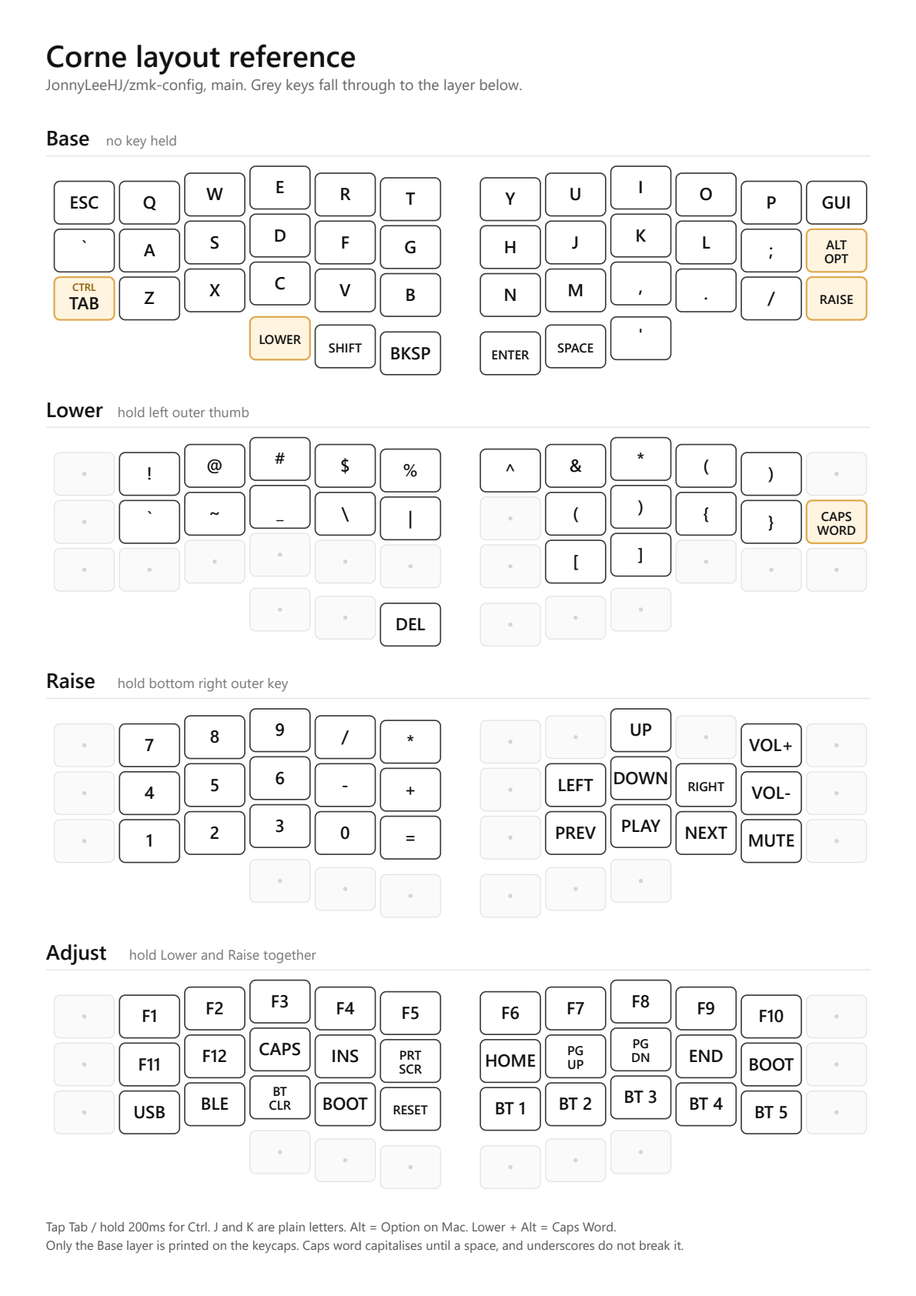
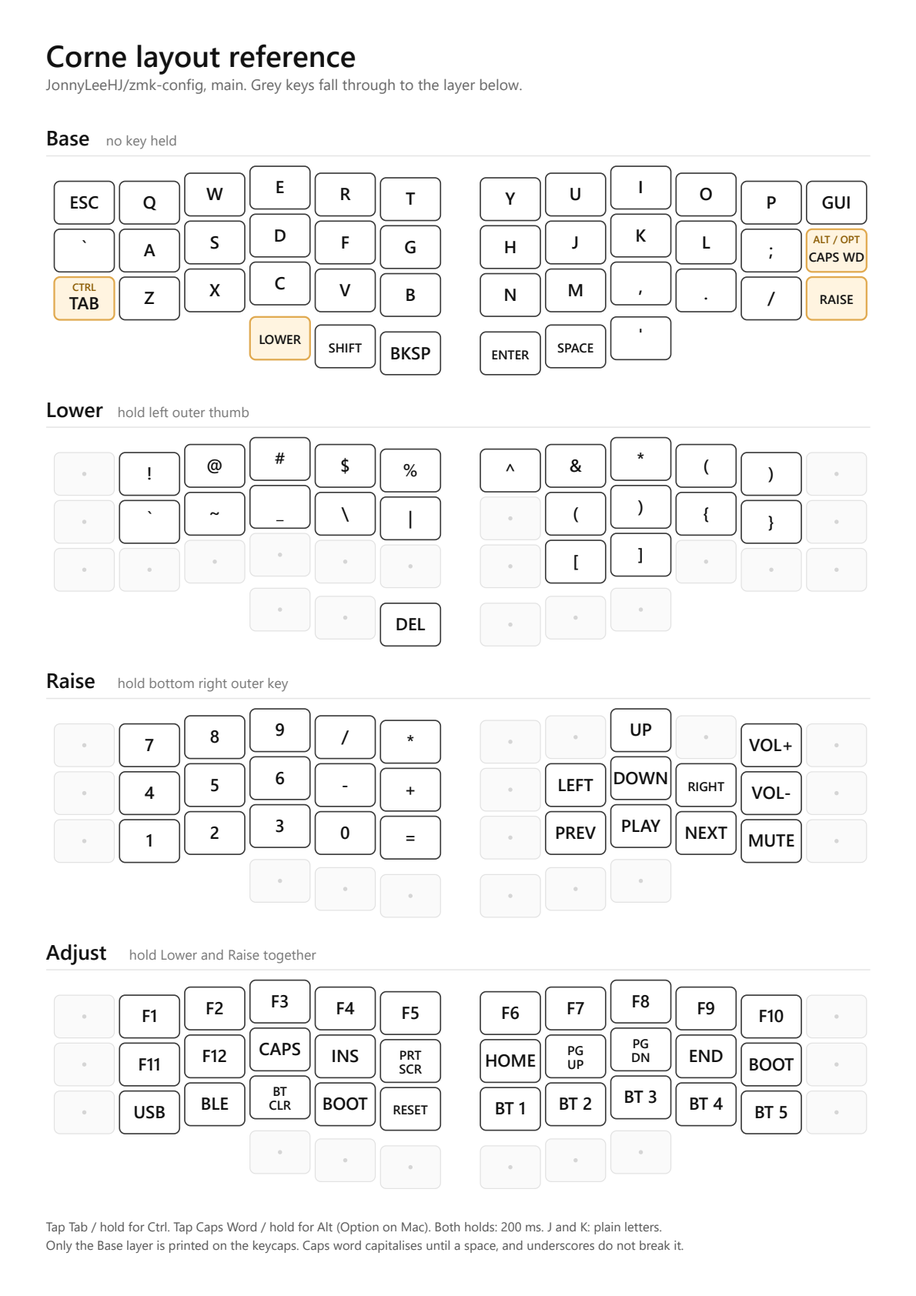
Publish installable offline keymap app and sync Caps Word Alt references

Changed region(s): [[0.1555, 0.9264, 0.7151, 0.9572], [0.8706, 0.3705, 0.9639, 0.4323], [0.8706, 0.1853, 0.9328, 0.2162]]

diff --git a/docs/mobile/index.html b/docs/mobile/index.html
@@ -1,31 +1,35 @@
 <!doctype html>
-<html lang="en"><head><meta charset="utf-8"><meta name="viewport" content="width=device-width,initial-scale=1"><meta name="theme-color" content="#f5f3ee"><title>Corne · Pocket keymap</title>
+<html lang="en"><head><meta charset="utf-8"><meta name="viewport" content="width=device-width,initial-scale=1"><meta name="theme-color" content="#f5f3ee"><link rel="manifest" href="./manifest.webmanifest"><link rel="apple-touch-icon" href="./icon-180.png"><meta name="apple-mobile-web-app-capable" content="yes"><meta name="apple-mobile-web-app-title" content="Corne"><title>Corne · Pocket keymap</title>
 <style>
 :root{color-scheme:light;--paper:#f5f3ee;--ink:#262c29;--muted:#69716b;--accent:#285a46;--line:#d9ded5;--key:#fffefa}*{box-sizing:border-box}body{margin:0;background:var(--paper);color:var(--ink);font:16px/1.5 system-ui,-apple-system,sans-serif}main{max-width:960px;margin:auto;padding:28px 20px 36px}header{display:flex;justify-content:space-between;align-items:center;margin-bottom:22px}.eyebrow{font-size:12px;letter-spacing:.14em;text-transform:uppercase;color:var(--muted)}h1{font-size:32px;line-height:1.1;letter-spacing:-1px;margin:7px 0}header span{font-size:12px;color:var(--muted)}button{font:inherit;cursor:pointer}nav{display:grid;grid-template-columns:repeat(4,1fr);gap:4px;padding:4px;background:#e8eae3;border-radius:12px;position:sticky;top:8px;z-index:2}nav button{border:0;background:transparent;color:var(--muted);border-radius:8px;min-height:44px;font-size:14px;font-weight:600}nav button[aria-pressed=true]{background:var(--accent);color:white}h2{font-size:22px;margin:24px 0 3px}.hint{margin:0;color:var(--muted);font-size:14px;min-height:42px}.boards{display:grid;gap:26px;margin:20px 0}.half-title{display:flex;justify-content:space-between;font-size:11px;text-transform:uppercase;letter-spacing:.12em;color:var(--muted);margin-bottom:10px}.grid{display:grid;grid-template-columns:repeat(6,minmax(0,1fr));gap:5px;align-items:start}.column{display:grid;gap:6px;padding-top:var(--stagger)}.key{min-width:0;width:100%;height:49px;border:1px solid #a8b3aa;border-bottom-width:3px;border-radius:7px;background:var(--key);color:var(--ink);font-size:16px;font-weight:600;line-height:1.05;display:flex;flex-direction:column;align-items:center;justify-content:center;gap:3px;padding:3px}.key.long{font-size:11px}.key small{font-size:9px;font-weight:500}.key.inherited{background:transparent;border-color:var(--line);color:var(--muted)}.key.special{border-color:#799681;background:#e3ede2}.key.selected{outline:3px solid var(--accent);outline-offset:2px}.key:focus-visible,button:focus-visible,a:focus-visible{outline:3px solid #bf691f;outline-offset:3px}.thumbs{display:grid;grid-template-columns:repeat(6,minmax(0,1fr));gap:5px;margin-top:12px}.thumbs.left .key:first-child{grid-column:4}.thumbs.right .key:first-child{grid-column:1}.legend{font-size:12px;color:var(--muted);margin:8px 0 18px}.detail{border-top:2px solid var(--accent);padding:15px 0;min-height:105px}.detail strong{font-size:18px}.detail p{font-size:14px;color:var(--muted);margin:5px 0}details{border-top:1px solid var(--line);padding:14px 0;font-size:14px}summary{cursor:pointer;font-weight:600;min-height:30px}details p{color:var(--muted)}footer{font-size:12px;color:var(--muted);margin-top:24px}a{color:var(--accent)}.os{border:1px solid var(--line);padding:9px 11px;border-radius:8px;background:transparent;font-size:12px;min-height:44px}@media(min-width:720px){main{padding:40px}.boards{grid-template-columns:1fr 1fr;gap:30px;margin:32px 0}.key{height:57px}h1{font-size:40px}.hint{min-height:0}}@media(max-width:359px){main{padding:20px 12px}.grid,.thumbs{gap:4px}.key{font-size:14px}}@media(prefers-color-scheme:dark){:root{color-scheme:dark;--paper:#191e1b;--ink:#edf1ea;--muted:#a6b0a8;--accent:#8db99d;--line:#414a43;--key:#272e29}nav{background:#272e29}nav button[aria-pressed=true]{color:#142218}.key.special{background:#2f4435;border-color:#86a58f}.key{border-color:#728175}.os{color:var(--ink)}} 
 </style></head><body><main>
-<header><div><div class="eyebrow">Your keyboard, at a glance</div><h1>Corne</h1><span>Pocket keymap · Draft</span></div><button class="os" id="os">Labels: Mac</button></header>
+<header><div><div class="eyebrow">Your keyboard, at a glance</div><h1>Corne</h1><span>Pocket keymap</span></div><button class="os" id="os">Labels: Mac</button></header>
 <nav aria-label="Choose keyboard layer" id="layers"></nav>
 <h2 id="title"></h2><p class="hint" id="hint"></p>
 <div class="boards" id="boards"></div><p class="legend">Muted keys inherit their action. Tap any key to see what it does.</p>
 <section class="detail" aria-live="polite"><strong id="keyTitle">A place for every key.</strong><p id="keyDetail">Choose a key above for its action and any hold behavior.</p></section>
-<details><summary>Everyday shortcuts</summary><p>Tap Tab for Tab. Hold it for 200 ms before pressing another key for Ctrl shortcuts. J and K are ordinary letters.</p><p>On Mac, GUI is Command and Alt is Option. On Windows, GUI is Windows and Right Alt may act as AltGr, depending on your keyboard language.</p><p>For Caps Word, hold Lower and tap the right outer home-row key. Release Lower, then type. Space ends Caps Word; underscores keep it active.</p></details>
-<details><summary>Reading the layers</summary><p>Lower: hold the left outer thumb. Raise: hold the right outer bottom key. Adjust: hold both together.</p><p>On Adjust, inherited bindings resolve through Raise, then Lower, then Base. These are reference buttons: tapping them here never sends a command to your keyboard.</p></details>
-<footer>From your firmware keymap · <a id="source">source</a><br><a href="../layout.pdf">Printable A4 sheet</a> · This draft is not yet published for phone access.</footer>
+<details><summary>Everyday shortcuts</summary><p>Tap Tab for Tab. Hold it for 200 ms before pressing another key for Ctrl shortcuts. J and K are ordinary letters.</p><p>On Mac, GUI is Command and Alt is Option. On Windows, GUI is Windows and Right Alt may act as AltGr, depending on your keyboard language.</p><p>Tap the right outer home-row key for Caps Word, or hold it for 200 ms for Alt/Option. No layer is needed. Space ends Caps Word; underscores keep it active.</p></details>
+<details><summary>Install on iPhone</summary><p>Open this page in Safari. Choose Share, then Add to Home Screen. Enable Open as Web App if offered. Open online once before using it offline. Reopen online after a firmware update to refresh the mapping.</p></details><details><summary>Reading the layers</summary><p>Lower: hold the left outer thumb. Raise: hold the right outer bottom key. Adjust: hold both together.</p><p>On Adjust, inherited bindings resolve through Raise, then Lower, then Base. These are reference buttons: tapping them here never sends a command to your keyboard.</p></details>
+<footer>From your firmware keymap · <a id="source">source</a><br><a href="./layout.pdf">Printable A4 sheet</a> · <span id="offlineStatus">Open online once to save for offline use.</span></footer>
 </main><script>
-const DATA={"revision":"d7542d9","layers":[{"name":"Base","sub":"no key held","rows":[["ESC","Q","W","E","R","T","Y","U","I","O","P","GUI"],["`","A","S","D","F","G","H","J","K","L",";","ALT\nOPT"],["TAB","Z","X","C","V","B","N","M",",",".","/","RAISE"]],"thumbs":["LOWER","SHIFT","BKSP","ENTER","SPACE","'"],"holds":{"2,0":"CTRL"},"accents":["1,11","2,0","2,11"],"thumbAccents":[0]},{"name":"Lower","sub":"hold left outer thumb","rows":[["","!","@","#","$","%","^","&","*","(",")",""],["","`","~","_","\\","|","","(",")","{","}","CAPS\nWORD"],["","","","","","","","[","]","","",""]],"thumbs":["","","DEL","","",""],"holds":{},"accents":["1,11"],"thumbAccents":[]},{"name":"Raise","sub":"hold bottom right outer key","rows":[["","7","8","9","/","*","","","UP","","VOL+",""],["","4","5","6","-","+","","LEFT","DOWN","RIGHT","VOL-",""],["","1","2","3","0","=","","PREV","PLAY","NEXT","MUTE",""]],"thumbs":["","","","","",""],"holds":{},"accents":[],"thumbAccents":[]},{"name":"Adjust","sub":"hold Lower and Raise together","rows":[["","F1","F2","F3","F4","F5","F6","F7","F8","F9","F10",""],["","F11","F12","CAPS","INS","PRT\nSCR","HOME","PG\nUP","PG\nDN","END","BOOT",""],["","USB","BLE","BT\nCLR","BOOT","RESET","BT 1","BT 2","BT 3","BT 4","BT 5",""]],"thumbs":["","","","","",""],"holds":{},"accents":[],"thumbAccents":[]}]};
+const DATA={"revision":"61cb7a3","layers":[{"name":"Base","sub":"no key held","rows":[["ESC","Q","W","E","R","T","Y","U","I","O","P","GUI"],["`","A","S","D","F","G","H","J","K","L",";","CAPS WORD"],["TAB","Z","X","C","V","B","N","M",",",".","/","RAISE"]],"thumbs":["LOWER","SHIFT","BKSP","ENTER","SPACE","'"],"holds":{"1,11":"ALT / OPT","2,0":"CTRL"},"accents":["1,11","2,0","2,11"],"thumbAccents":[0]},{"name":"Lower","sub":"hold left outer thumb","rows":[["","!","@","#","$","%","^","&","*","(",")",""],["","`","~","_","\\","|","","(",")","{","}",""],["","","","","","","","[","]","","",""]],"thumbs":["","","DEL","","",""],"holds":{},"accents":[],"thumbAccents":[]},{"name":"Raise","sub":"hold bottom right outer key","rows":[["","7","8","9","/","*","","","UP","","VOL+",""],["","4","5","6","-","+","","LEFT","DOWN","RIGHT","VOL-",""],["","1","2","3","0","=","","PREV","PLAY","NEXT","MUTE",""]],"thumbs":["","","","","",""],"holds":{},"accents":[],"thumbAccents":[]},{"name":"Adjust","sub":"hold Lower and Raise together","rows":[["","F1","F2","F3","F4","F5","F6","F7","F8","F9","F10",""],["","F11","F12","CAPS","INS","PRT\nSCR","HOME","PG\nUP","PG\nDN","END","BOOT",""],["","USB","BLE","BT\nCLR","BOOT","RESET","BT 1","BT 2","BT 3","BT 4","BT 5",""]],"thumbs":["","","","","",""],"holds":{},"accents":[],"thumbAccents":[]}]};
 let active=0,mac=true;
+try {mac=localStorage.getItem('corne-os')!=='windows';} catch {}
+document.querySelector('#os').textContent='Labels: '+(mac?'Mac':'Windows');
+const holdFor=(i,layer)=>DATA.layers[layer].holds[Math.floor(i/12)+','+(i%12)];
 const flat=l=>l.rows.flat().concat(l.thumbs);
 const raw=DATA.layers.map(flat);
 const hints=['Everyday typing. Tap Tab; hold 200 ms for Ctrl.','Hold the left outer thumb for symbols and brackets.','Hold the right outer bottom key for numbers and arrows.','Hold Lower + Raise for function keys, Bluetooth and utilities.'];
-function resolve(i){const order=active===3?[3,2,1,0]:active?[active,0]:[0];for(const layer of order)if(raw[layer][i])return {label:raw[layer][i],layer};throw Error('Unbound key '+i)}
+function resolve(i){const order=active===3?[3,2,1,0]:active?[active,0]:[0];for(const layer of order)if(raw[layer][i])return {label:raw[layer][i],layer,hold:holdFor(i,layer)};throw Error('Unbound key '+i)}
 function labelFor(label){if(label==='GUI')return mac?'CMD':'WIN';if(label==='ALT\nOPT')return mac?'OPT':'ALT';return label}
 function info(i){
  const key=resolve(i),label=labelFor(key.label),base=labelFor(raw[0][i]);
  let message='Press for '+label.replaceAll('\n',' ')+'.';
  if(i===24&&key.layer===0)message='Tap for Tab. Hold for 200 ms for Left Ctrl; then press your shortcut key. A quick tap stays Tab even when another key overlaps.';
+ else if(key.hold==='ALT / OPT')message='Tap for Caps Word. Hold for 200 ms for '+(mac?'Right Option':'Right Alt')+' before pressing a shortcut key. No layer is needed. Spaces end Caps Word; underscores continue it.';
  else if(key.label==='ALT\nOPT')message=mac?'Right Option on macOS. Hold with another key for an Option shortcut.':'Right Alt. Depending on your keyboard language, this may function as AltGr.';
  else if(key.label==='GUI')message=mac?'Command on macOS. Hold with C, V or S for common shortcuts.':'Windows key. Hold with another key for Windows shortcuts.';
- else if(key.label==='CAPS\nWORD')message='Activate Caps Word, release Lower, then type. Space ends it; underscores continue it.';
+ else if(key.label==='CAPS\nWORD')message='Activate Caps Word, then type. Space ends it; underscores continue it.';
  else if(key.label==='LOWER')message='Hold the left outer thumb to activate Lower. Combine with Raise for Adjust.';
  else if(key.label==='RAISE')message='Hold the right outer bottom key to activate Raise. Combine with Lower for Adjust.';
  else if(key.label==='BOOT')message='Enter the bootloader for firmware flashing. This page only describes the binding; it does not trigger it.';
@@ -42,11 +46,11 @@ function keyButton(i){
  const value=resolve(i),label=labelFor(value.label),button=document.createElement('button');
  button.type='button';button.className='key';button.dataset.index=i;
  if(value.layer!==active)button.classList.add('inherited');
- else if(['LOWER','RAISE','ALT\nOPT','CAPS\nWORD'].includes(value.label)||i===24&&value.layer===0)button.classList.add('special');
+ else if(['LOWER','RAISE','ALT\nOPT','CAPS\nWORD'].includes(value.label)||value.hold)button.classList.add('special');
  if(label.length>4)button.classList.add('long');
- if(i===24&&value.layer===0){const small=document.createElement('small');small.textContent='hold CTRL';button.append(small)}
- label.split('\n').forEach(t=>{const span=document.createElement('span');span.textContent=t;button.append(span)});
- button.setAttribute('aria-label',label.replaceAll('\n',' ')+(i===24&&value.layer===0?', hold for Ctrl':'')+(value.layer!==active?', inherited from '+DATA.layers[value.layer].name:''));
+ if(value.hold){const small=document.createElement('small');small.textContent='hold '+(value.hold==='ALT / OPT'?(mac?'OPT':'ALT'):value.hold);button.append(small)}
+ (label==='CAPS WORD'?['CAPS','WORD']:label.split('\n')).forEach(t=>{const span=document.createElement('span');span.textContent=t;button.append(span)});
+ button.setAttribute('aria-label',label.replaceAll('\n',' ')+(value.hold?', hold for '+value.hold:'')+(value.layer!==active?', inherited from '+DATA.layers[value.layer].name:''));
  button.onclick=()=>info(i);return button;
 }
 function render(){
@@ -66,7 +70,12 @@ function render(){
  document.querySelector('#keyDetail').textContent='Tap a key for its action. Muted keys still work through the underlying layers.';
 }
 DATA.layers.forEach((l,i)=>{const b=document.createElement('button');b.textContent=l.name;b.type='button';b.onclick=()=>{active=i;render()};document.querySelector('#layers').append(b)});
-document.querySelector('#os').onclick=()=>{mac=!mac;document.querySelector('#os').textContent='Labels: '+(mac?'Mac':'Windows');render()};
+document.querySelector('#os').onclick=()=>{mac=!mac;try{localStorage.setItem('corne-os',mac?'mac':'windows')}catch{}document.querySelector('#os').textContent='Labels: '+(mac?'Mac':'Windows');render()};
 const source=document.querySelector('#source');source.textContent=DATA.revision;source.href='https://github.com/JonnyLeeHJ/zmk-config/blob/'+DATA.revision+'/config/corne.keymap';
 render();
+if('serviceWorker' in navigator && location.protocol!=='file:'){
+ navigator.serviceWorker.register('./sw.js').then(()=>navigator.serviceWorker.ready).then(()=>{
+ document.querySelector('#offlineStatus').textContent='Saved for offline use.';
+ }).catch(()=>{document.querySelector('#offlineStatus').textContent='Offline setup unavailable. You can still browse online.';});
+}
 </script></body></html>

diff --git a/docs/mobile/template.html b/docs/mobile/template.html
@@ -1,31 +1,35 @@
 <!doctype html>
-<html lang="en"><head><meta charset="utf-8"><meta name="viewport" content="width=device-width,initial-scale=1"><meta name="theme-color" content="#f5f3ee"><title>Corne · Pocket keymap</title>
+<html lang="en"><head><meta charset="utf-8"><meta name="viewport" content="width=device-width,initial-scale=1"><meta name="theme-color" content="#f5f3ee"><link rel="manifest" href="./manifest.webmanifest"><link rel="apple-touch-icon" href="./icon-180.png"><meta name="apple-mobile-web-app-capable" content="yes"><meta name="apple-mobile-web-app-title" content="Corne"><title>Corne · Pocket keymap</title>
 <style>
 :root{color-scheme:light;--paper:#f5f3ee;--ink:#262c29;--muted:#69716b;--accent:#285a46;--line:#d9ded5;--key:#fffefa}*{box-sizing:border-box}body{margin:0;background:var(--paper);color:var(--ink);font:16px/1.5 system-ui,-apple-system,sans-serif}main{max-width:960px;margin:auto;padding:28px 20px 36px}header{display:flex;justify-content:space-between;align-items:center;margin-bottom:22px}.eyebrow{font-size:12px;letter-spacing:.14em;text-transform:uppercase;color:var(--muted)}h1{font-size:32px;line-height:1.1;letter-spacing:-1px;margin:7px 0}header span{font-size:12px;color:var(--muted)}button{font:inherit;cursor:pointer}nav{display:grid;grid-template-columns:repeat(4,1fr);gap:4px;padding:4px;background:#e8eae3;border-radius:12px;position:sticky;top:8px;z-index:2}nav button{border:0;background:transparent;color:var(--muted);border-radius:8px;min-height:44px;font-size:14px;font-weight:600}nav button[aria-pressed=true]{background:var(--accent);color:white}h2{font-size:22px;margin:24px 0 3px}.hint{margin:0;color:var(--muted);font-size:14px;min-height:42px}.boards{display:grid;gap:26px;margin:20px 0}.half-title{display:flex;justify-content:space-between;font-size:11px;text-transform:uppercase;letter-spacing:.12em;color:var(--muted);margin-bottom:10px}.grid{display:grid;grid-template-columns:repeat(6,minmax(0,1fr));gap:5px;align-items:start}.column{display:grid;gap:6px;padding-top:var(--stagger)}.key{min-width:0;width:100%;height:49px;border:1px solid #a8b3aa;border-bottom-width:3px;border-radius:7px;background:var(--key);color:var(--ink);font-size:16px;font-weight:600;line-height:1.05;display:flex;flex-direction:column;align-items:center;justify-content:center;gap:3px;padding:3px}.key.long{font-size:11px}.key small{font-size:9px;font-weight:500}.key.inherited{background:transparent;border-color:var(--line);color:var(--muted)}.key.special{border-color:#799681;background:#e3ede2}.key.selected{outline:3px solid var(--accent);outline-offset:2px}.key:focus-visible,button:focus-visible,a:focus-visible{outline:3px solid #bf691f;outline-offset:3px}.thumbs{display:grid;grid-template-columns:repeat(6,minmax(0,1fr));gap:5px;margin-top:12px}.thumbs.left .key:first-child{grid-column:4}.thumbs.right .key:first-child{grid-column:1}.legend{font-size:12px;color:var(--muted);margin:8px 0 18px}.detail{border-top:2px solid var(--accent);padding:15px 0;min-height:105px}.detail strong{font-size:18px}.detail p{font-size:14px;color:var(--muted);margin:5px 0}details{border-top:1px solid var(--line);padding:14px 0;font-size:14px}summary{cursor:pointer;font-weight:600;min-height:30px}details p{color:var(--muted)}footer{font-size:12px;color:var(--muted);margin-top:24px}a{color:var(--accent)}.os{border:1px solid var(--line);padding:9px 11px;border-radius:8px;background:transparent;font-size:12px;min-height:44px}@media(min-width:720px){main{padding:40px}.boards{grid-template-columns:1fr 1fr;gap:30px;margin:32px 0}.key{height:57px}h1{font-size:40px}.hint{min-height:0}}@media(max-width:359px){main{padding:20px 12px}.grid,.thumbs{gap:4px}.key{font-size:14px}}@media(prefers-color-scheme:dark){:root{color-scheme:dark;--paper:#191e1b;--ink:#edf1ea;--muted:#a6b0a8;--accent:#8db99d;--line:#414a43;--key:#272e29}nav{background:#272e29}nav button[aria-pressed=true]{color:#142218}.key.special{background:#2f4435;border-color:#86a58f}.key{border-color:#728175}.os{color:var(--ink)}} 
 </style></head><body><main>
-<header><div><div class="eyebrow">Your keyboard, at a glance</div><h1>Corne</h1><span>Pocket keymap · Draft</span></div><button class="os" id="os">Labels: Mac</button></header>
+<header><div><div class="eyebrow">Your keyboard, at a glance</div><h1>Corne</h1><span>Pocket keymap</span></div><button class="os" id="os">Labels: Mac</button></header>
 <nav aria-label="Choose keyboard layer" id="layers"></nav>
 <h2 id="title"></h2><p class="hint" id="hint"></p>
 <div class="boards" id="boards"></div><p class="legend">Muted keys inherit their action. Tap any key to see what it does.</p>
 <section class="detail" aria-live="polite"><strong id="keyTitle">A place for every key.</strong><p id="keyDetail">Choose a key above for its action and any hold behavior.</p></section>
-<details><summary>Everyday shortcuts</summary><p>Tap Tab for Tab. Hold it for 200 ms before pressing another key for Ctrl shortcuts. J and K are ordinary letters.</p><p>On Mac, GUI is Command and Alt is Option. On Windows, GUI is Windows and Right Alt may act as AltGr, depending on your keyboard language.</p><p>For Caps Word, hold Lower and tap the right outer home-row key. Release Lower, then type. Space ends Caps Word; underscores keep it active.</p></details>
-<details><summary>Reading the layers</summary><p>Lower: hold the left outer thumb. Raise: hold the right outer bottom key. Adjust: hold both together.</p><p>On Adjust, inherited bindings resolve through Raise, then Lower, then Base. These are reference buttons: tapping them here never sends a command to your keyboard.</p></details>
-<footer>From your firmware keymap · <a id="source">source</a><br><a href="../layout.pdf">Printable A4 sheet</a> · This draft is not yet published for phone access.</footer>
+<details><summary>Everyday shortcuts</summary><p>Tap Tab for Tab. Hold it for 200 ms before pressing another key for Ctrl shortcuts. J and K are ordinary letters.</p><p>On Mac, GUI is Command and Alt is Option. On Windows, GUI is Windows and Right Alt may act as AltGr, depending on your keyboard language.</p><p>Tap the right outer home-row key for Caps Word, or hold it for 200 ms for Alt/Option. No layer is needed. Space ends Caps Word; underscores keep it active.</p></details>
+<details><summary>Install on iPhone</summary><p>Open this page in Safari. Choose Share, then Add to Home Screen. Enable Open as Web App if offered. Open online once before using it offline. Reopen online after a firmware update to refresh the mapping.</p></details><details><summary>Reading the layers</summary><p>Lower: hold the left outer thumb. Raise: hold the right outer bottom key. Adjust: hold both together.</p><p>On Adjust, inherited bindings resolve through Raise, then Lower, then Base. These are reference buttons: tapping them here never sends a command to your keyboard.</p></details>
+<footer>From your firmware keymap · <a id="source">source</a><br><a href="./layout.pdf">Printable A4 sheet</a> · <span id="offlineStatus">Open online once to save for offline use.</span></footer>
 </main><script>
 const DATA=__KEYMAP_DATA__;
 let active=0,mac=true;
+try {mac=localStorage.getItem('corne-os')!=='windows';} catch {}
+document.querySelector('#os').textContent='Labels: '+(mac?'Mac':'Windows');
+const holdFor=(i,layer)=>DATA.layers[layer].holds[Math.floor(i/12)+','+(i%12)];
 const flat=l=>l.rows.flat().concat(l.thumbs);
 const raw=DATA.layers.map(flat);
 const hints=['Everyday typing. Tap Tab; hold 200 ms for Ctrl.','Hold the left outer thumb for symbols and brackets.','Hold the right outer bottom key for numbers and arrows.','Hold Lower + Raise for function keys, Bluetooth and utilities.'];
-function resolve(i){const order=active===3?[3,2,1,0]:active?[active,0]:[0];for(const layer of order)if(raw[layer][i])return {label:raw[layer][i],layer};throw Error('Unbound key '+i)}
+function resolve(i){const order=active===3?[3,2,1,0]:active?[active,0]:[0];for(const layer of order)if(raw[layer][i])return {label:raw[layer][i],layer,hold:holdFor(i,layer)};throw Error('Unbound key '+i)}
 function labelFor(label){if(label==='GUI')return mac?'CMD':'WIN';if(label==='ALT\nOPT')return mac?'OPT':'ALT';return label}
 function info(i){
  const key=resolve(i),label=labelFor(key.label),base=labelFor(raw[0][i]);
  let message='Press for '+label.replaceAll('\n',' ')+'.';
  if(i===24&&key.layer===0)message='Tap for Tab. Hold for 200 ms for Left Ctrl; then press your shortcut key. A quick tap stays Tab even when another key overlaps.';
+ else if(key.hold==='ALT / OPT')message='Tap for Caps Word. Hold for 200 ms for '+(mac?'Right Option':'Right Alt')+' before pressing a shortcut key. No layer is needed. Spaces end Caps Word; underscores continue it.';
  else if(key.label==='ALT\nOPT')message=mac?'Right Option on macOS. Hold with another key for an Option shortcut.':'Right Alt. Depending on your keyboard language, this may function as AltGr.';
  else if(key.label==='GUI')message=mac?'Command on macOS. Hold with C, V or S for common shortcuts.':'Windows key. Hold with another key for Windows shortcuts.';
- else if(key.label==='CAPS\nWORD')message='Activate Caps Word, release Lower, then type. Space ends it; underscores continue it.';
+ else if(key.label==='CAPS\nWORD')message='Activate Caps Word, then type. Space ends it; underscores continue it.';
  else if(key.label==='LOWER')message='Hold the left outer thumb to activate Lower. Combine with Raise for Adjust.';
  else if(key.label==='RAISE')message='Hold the right outer bottom key to activate Raise. Combine with Lower for Adjust.';
  else if(key.label==='BOOT')message='Enter the bootloader for firmware flashing. This page only describes the binding; it does not trigger it.';
@@ -42,11 +46,11 @@ function keyButton(i){
  const value=resolve(i),label=labelFor(value.label),button=document.createElement('button');
  button.type='button';button.className='key';button.dataset.index=i;
  if(value.layer!==active)button.classList.add('inherited');
- else if(['LOWER','RAISE','ALT\nOPT','CAPS\nWORD'].includes(value.label)||i===24&&value.layer===0)button.classList.add('special');
+ else if(['LOWER','RAISE','ALT\nOPT','CAPS\nWORD'].includes(value.label)||value.hold)button.classList.add('special');
  if(label.length>4)button.classList.add('long');
- if(i===24&&value.layer===0){const small=document.createElement('small');small.textContent='hold CTRL';button.append(small)}
- label.split('\n').forEach(t=>{const span=document.createElement('span');span.textContent=t;button.append(span)});
- button.setAttribute('aria-label',label.replaceAll('\n',' ')+(i===24&&value.layer===0?', hold for Ctrl':'')+(value.layer!==active?', inherited from '+DATA.layers[value.layer].name:''));
+ if(value.hold){const small=document.createElement('small');small.textContent='hold '+(value.hold==='ALT / OPT'?(mac?'OPT':'ALT'):value.hold);button.append(small)}
+ (label==='CAPS WORD'?['CAPS','WORD']:label.split('\n')).forEach(t=>{const span=document.createElement('span');span.textContent=t;button.append(span)});
+ button.setAttribute('aria-label',label.replaceAll('\n',' ')+(value.hold?', hold for '+value.hold:'')+(value.layer!==active?', inherited from '+DATA.layers[value.layer].name:''));
  button.onclick=()=>info(i);return button;
 }
 function render(){
@@ -66,7 +70,12 @@ function render(){
  document.querySelector('#keyDetail').textContent='Tap a key for its action. Muted keys still work through the underlying layers.';
 }
 DATA.layers.forEach((l,i)=>{const b=document.createElement('button');b.textContent=l.name;b.type='button';b.onclick=()=>{active=i;render()};document.querySelector('#layers').append(b)});
-document.querySelector('#os').onclick=()=>{mac=!mac;document.querySelector('#os').textContent='Labels: '+(mac?'Mac':'Windows');render()};
+document.querySelector('#os').onclick=()=>{mac=!mac;try{localStorage.setItem('corne-os',mac?'mac':'windows')}catch{}document.querySelector('#os').textContent='Labels: '+(mac?'Mac':'Windows');render()};
 const source=document.querySelector('#source');source.textContent=DATA.revision;source.href='https://github.com/JonnyLeeHJ/zmk-config/blob/'+DATA.revision+'/config/corne.keymap';
 render();
+if('serviceWorker' in navigator && location.protocol!=='file:'){
+ navigator.serviceWorker.register('./sw.js').then(()=>navigator.serviceWorker.ready).then(()=>{
+ document.querySelector('#offlineStatus').textContent='Saved for offline use.';
+ }).catch(()=>{document.querySelector('#offlineStatus').textContent='Offline setup unavailable. You can still browse online.';});
+}
 </script></body></html>

diff --git a/docs/generate-layout.js b/docs/generate-layout.js
@@ -48,6 +48,7 @@ function decode(binding) {
    if(/^[A-Z]$|^F(?:[1-9]|1[0-2])$|^(ESC|TAB|DEL|UP|DOWN|LEFT|RIGHT|CAPS|INS|HOME|END)$/.test(code)) return {label:code};
  }
  if(behavior === '&tab_ctrl' && args.join(' ') === 'LCTRL TAB') return {label:'TAB',hold:'CTRL'};
+ if(behavior === '&alt_caps' && args.join(' ') === 'RALT 0') return {label:'CAPS WORD',hold:'ALT / OPT'};
  if(behavior === '&caps_word') return {label:'CAPS\nWORD'};
  if(behavior === '&mo') return {label:args[0] === '1' ? 'LOWER' : 'RAISE'};
  if(behavior === '&bootloader') return {label:'BOOT'};
@@ -109,7 +110,7 @@ function key(x, y, label, kind, hold) {
   const cls = lines.some((l) => l.length > 4) || lines.length > 1 ? 'ks' : 'k';
   if (hold) {
     o += `<text class="hold" x="${cx}" y="${y + 12}">${esc(hold)}</text>`;
-    o += `<text class="${cls}" x="${cx}" y="${y + 28}">${esc(lines[0])}</text>`;
+    o += `<text class="${cls}" x="${cx}" y="${y + 28}">${esc(lines[0].replace("CAPS WORD", "CAPS WD"))}</text>`;
     return o;
   }
   if (lines.length === 1) {
@@ -117,9 +118,9 @@ function key(x, y, label, kind, hold) {
     // sheet used to place physical keycaps, so nudge each to where it reads.
     const nudge = { ',': 3, '.': 3, _: 5, "'": -3, '`': -3, '~': -1 };
     const dy = nudge[lines[0]] || 0;
-    o += `<text class="${cls}" x="${cx}" y="${y + KH / 2 + 5 + dy}">${esc(lines[0])}</text>`;
+    o += `<text class="${cls}" x="${cx}" y="${y + KH / 2 + 5 + dy}">${esc(lines[0].replace("CAPS WORD", "CAPS WD"))}</text>`;
   } else {
-    o += `<text class="${cls}" x="${cx}" y="${y + KH / 2 - 1}">${esc(lines[0])}</text>`;
+    o += `<text class="${cls}" x="${cx}" y="${y + KH / 2 - 1}">${esc(lines[0].replace("CAPS WORD", "CAPS WD"))}</text>`;
     o += `<text class="${cls}" x="${cx}" y="${y + KH / 2 + 11}">${esc(lines[1])}</text>`;
   }
   return o;
@@ -157,7 +158,7 @@ for (const L of layers) {
   cy += layerH;
 }
 
-s += `<text class="leg" x="${MARGIN}" y="${PAGE_H - MARGIN - 16}">Tap Tab / hold 200ms for Ctrl. J and K are plain letters. Alt = Option on Mac. Lower + Alt = Caps Word.</text>`;
+s += `<text class="leg" x="${MARGIN}" y="${PAGE_H - MARGIN - 16}">Tap Tab / hold for Ctrl. Tap Caps Word / hold for Alt (Option on Mac). Both holds: 200 ms. J and K: plain letters.</text>`;
 s += `<text class="leg" x="${MARGIN}" y="${PAGE_H - MARGIN}">Only the Base layer is printed on the keycaps. Caps word capitalises until a space, and underscores do not break it.</text>`;
 s += '</svg>';
 

diff --git a/docs/mobile/generate.js b/docs/mobile/generate.js
@@ -1,4 +1,4 @@
-const fs=require('fs'),path=require('path'),vm=require('vm'),cp=require('child_process');
+const fs=require('fs'),path=require('path'),vm=require('vm'),cp=require('child_process'),crypto=require('crypto');
 const root=path.join(__dirname,'../..');
 const source=fs.readFileSync(path.join(__dirname,'../generate-layout.js'),'utf8');
 const context={require,__dirname:path.join(__dirname,'..')};
@@ -7,4 +7,10 @@ vm.runInContext(source.slice(0,source.indexOf('const esc ='))+'\nglobalThis.resu
 const data={revision:cp.execFileSync('git',['log','-1','--format=%h','--','config/corne.keymap'],{cwd:root,encoding:'utf8'}).trim(),layers:context.result};
 const template=fs.readFileSync(path.join(__dirname,'template.html'),'utf8');
 fs.writeFileSync(path.join(__dirname,'index.html'),template.replace('__KEYMAP_DATA__',JSON.stringify(data).replace(/</g,'\\u003c')));
-console.log('Generated mobile reference from four live keymap layers.');
+fs.copyFileSync(path.join(__dirname,'../layout.pdf'),path.join(__dirname,'layout.pdf'));
+const assets=['index.html','manifest.webmanifest','icon-180.png','icon-192.png','icon-512.png','layout.pdf'];
+const hash=crypto.createHash('sha256');
+for(const asset of assets)hash.update(fs.readFileSync(path.join(__dirname,asset)));
+const sw=fs.readFileSync(path.join(__dirname,'sw-template.js'),'utf8').replace('__CACHE_VERSION__',hash.digest('hex').slice(0,16));
+fs.writeFileSync(path.join(__dirname,'sw.js'),sw);
+console.log('Generated app and versioned offline cache from '+data.revision);

diff --git a/docs/mobile/sw-template.js b/docs/mobile/sw-template.js
@@ -1,0 +1,26 @@
+const CACHE='corne-pocket-__CACHE_VERSION__';
+const ASSETS=['./','./index.html','./manifest.webmanifest','./icon-180.png','./icon-192.png','./icon-512.png','./layout.pdf'];
+self.addEventListener('install',event=>{
+ event.waitUntil(caches.open(CACHE).then(cache=>cache.addAll(ASSETS)).then(()=>self.skipWaiting()));
+});
+self.addEventListener('activate',event=>{
+ event.waitUntil(caches.keys().then(keys=>Promise.all(keys.filter(key=>key.startsWith('corne-pocket-')&&key!==CACHE).map(key=>caches.delete(key)))).then(()=>self.clients.claim()));
+});
+self.addEventListener('fetch',event=>{
+ if(event.request.method!=='GET')return;
+ const url=new URL(event.request.url);
+ if(url.origin!==self.location.origin||!url.href.startsWith(self.registration.scope))return;
+ event.respondWith((async()=>{
+   const cache=await caches.open(CACHE);
+   try{
+     const response=await fetch(event.request);
+     if(response.ok){await cache.put(event.request,response.clone());return response;}
+     return await cache.match(event.request)||response;
+   }catch{
+     const saved=await cache.match(event.request);
+     if(saved)return saved;
+     if(event.request.mode==='navigate')return await cache.match('./index.html');
+     return Response.error();
+   }
+ })());
+});

diff --git a/docs/mobile/sw.js b/docs/mobile/sw.js
@@ -1,0 +1,26 @@
+const CACHE='corne-pocket-791650ef4f4cd14c';
+const ASSETS=['./','./index.html','./manifest.webmanifest','./icon-180.png','./icon-192.png','./icon-512.png','./layout.pdf'];
+self.addEventListener('install',event=>{
+ event.waitUntil(caches.open(CACHE).then(cache=>cache.addAll(ASSETS)).then(()=>self.skipWaiting()));
+});
+self.addEventListener('activate',event=>{
+ event.waitUntil(caches.keys().then(keys=>Promise.all(keys.filter(key=>key.startsWith('corne-pocket-')&&key!==CACHE).map(key=>caches.delete(key)))).then(()=>self.clients.claim()));
+});
+self.addEventListener('fetch',event=>{
+ if(event.request.method!=='GET')return;
+ const url=new URL(event.request.url);
+ if(url.origin!==self.location.origin||!url.href.startsWith(self.registration.scope))return;
+ event.respondWith((async()=>{
+   const cache=await caches.open(CACHE);
+   try{
+     const response=await fetch(event.request);
+     if(response.ok){await cache.put(event.request,response.clone());return response;}
+     return await cache.match(event.request)||response;
+   }catch{
+     const saved=await cache.match(event.request);
+     if(saved)return saved;
+     if(event.request.mode==='navigate')return await cache.match('./index.html');
+     return Response.error();
+   }
+ })());
+});

diff --git a/README.md b/README.md
@@ -2,6 +2,16 @@
 
 QWERTY across four layers, with Luna the dog on the left display.
 
+[Open the mobile keymap app](https://JonnyLeeHJ.github.io/zmk-config/).
+On iPhone, open it in Safari, use Share > Add to Home Screen, and enable
+Open as Web App if offered. Open online once to cache all four layers and
+the printable sheet for offline use. Reopen online after firmware updates.
+The app only describes bindings; it does not change or flash your keyboard.
+
+Run node docs/mobile/generate.js after regenerating the PDF.
+GitHub Pages deployment regenerates its data from the checked-in keymap.
+
+
 ![Layout reference](docs/layout.png)
 
 [Printable version: docs/layout.pdf](docs/layout.pdf), sized to a single A4
@@ -45,7 +55,7 @@ through `conditional-layers` rather than a key of its own.
 
 ```
  ESC    Q     W     E     R     T   |   Y     U     I     O     P    GUI
-  `     A     S     D     F     G   |   H     J     K     L     ;   ALT
+  `     A     S     D     F     G   |   H     J     K     L     ;  CW/ALT
 CTL/TAB Z     X     C     V     B   |   N     M     ,     .     /    RSE
                  LWR   SFT  BSPC    |  ENT   SPC    '
 ```
@@ -55,19 +65,22 @@ dedicated tap-preferred behavior so pressing another key during a quick Tab
 does not immediately turn it into Ctrl. For shortcuts, hold Tab past 200ms
 before pressing the shortcut key. J and K are plain letters again.
 
-The right outer home-row key is dedicated Right Alt, which is Right Option
-on macOS (and may act as AltGr with some Windows keyboard layouts).
-GUI remains Windows on Windows and Command on macOS.
+The right outer home-row key (CW/ALT) does double duty: tap for Caps Word,
+hold for 200 ms for Right Alt / Option. This uses tap-preferred handling,
+just like Tab/Ctrl. Wait for the hold threshold before pressing an Alt/Option
+shortcut; a shorter press activates Caps Word instead. On some Windows
+keyboard layouts Right Alt acts as AltGr.
 
-Hold Lower and tap the Alt/Option position to enable Caps Word. Release Lower
-before typing the word. Spaces end Caps Word; underscores do not, so
-MY_LONG_CONSTANT works in one go.
+Caps Word is on Base, with no layer required. Tap it and type your identifier.
+Spaces end it; underscores do not, so MY_LONG_CONSTANT works in one go.
+The same key is transparent on Lower, Raise and Adjust, inheriting this behavior.
+GUI remains Windows on Windows and Command on macOS.
 
 ### Lower, symbols and brackets
 
 ```
         !     @     #     $     %   |   ^     &     *     (     )
-        `     ~     _     \     |   |         (     )     {     }   CAPSW
+        `     ~     _     \     |   |         (     )     {     }
                                     |         [     ]
                              DEL    |
 ```
@@ -78,8 +91,7 @@ of the home row, braces beside them on ring and pinky, square brackets directly
 under the parens. `{{ ref('model') }}` never leaves the right hand.
 
 The Tab/Ctrl position stays transparent on every higher layer, keeping Ctrl
-available with brackets and navigation. On Lower, the Alt position is Caps
-Word; to combine Option with a symbol, hold Option before activating Lower.
+available with brackets and navigation. Alt/Caps Word is also inherited on Lower: hold for Option or tap for Caps Word.
 
 `<` `>` `:` `"` and `?` are deliberately absent. Shift sits on the left thumb
 and comma, period, slash, semicolon and apostrophe are all on the right hand,

diff --git a/docs/mobile/README.md b/docs/mobile/README.md
@@ -1,19 +1,25 @@
-# Mobile reference draft
+# Corne Pocket Keymap
 
-Run from the repository root:
+Published at https://JonnyLeeHJ.github.io/zmk-config/ by the Pages workflow.
+On iPhone, use Safari > Share > Add to Home Screen. Enable Open as Web App if
+offered. Open online once before using offline. Browser storage eviction or
+clearing website data can require another online visit.
 
+Regenerate from the repo root after updating the keymap and printable PDF:
+
+    node docs/generate-layout.js
+    # Render docs/layout.html to docs/layout.pdf as described in README.md.
     node docs/mobile/generate.js
 
-Open docs/mobile/index.html or serve the repository with a local static HTTP
-server. The page embeds its data and needs no CDN or runtime dependencies.
+The mobile generator reuses the diagram's binding parser and records the latest
+keymap commit. It embeds all four layers; the service worker caches the app,
+icons and PDF. Its cache version hashes these assets, and old app caches are
+removed on activation. Online requests refresh the cache; reopen online to see
+updated mappings. OS label preference is stored locally.
 
-The generator reuses the binding parser from docs/generate-layout.js, reads
-config/corne.keymap, and records the most recent commit that changed that file.
-Regenerate after every mapping change. Edit template.html rather than index.html.
+Edit template.html and sw-template.js, then regenerate. Do not hand-edit the
+generated index.html or sw.js. Pages stages only public app assets, not sources.
 
-All four layers display effective bindings. Adjust resolves transparent keys
-through Raise, Lower, then Base. Tapping keys is informational and never sends
-keyboard commands. Mac/Windows toggles only the labels.
-
-This is a draft, not a published GitHub Pages site. Offline installation and
-automatic deployment are not configured.
+Transparent keys resolve through Raise, Lower, Base on Adjust. Tapping keys
+only explains their behavior: this app never sends commands to the keyboard.
+Firmware still needs to be flashed separately.
